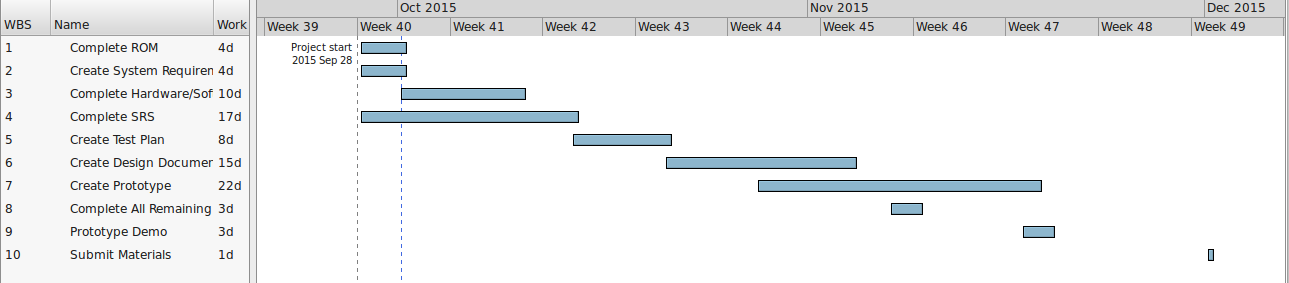
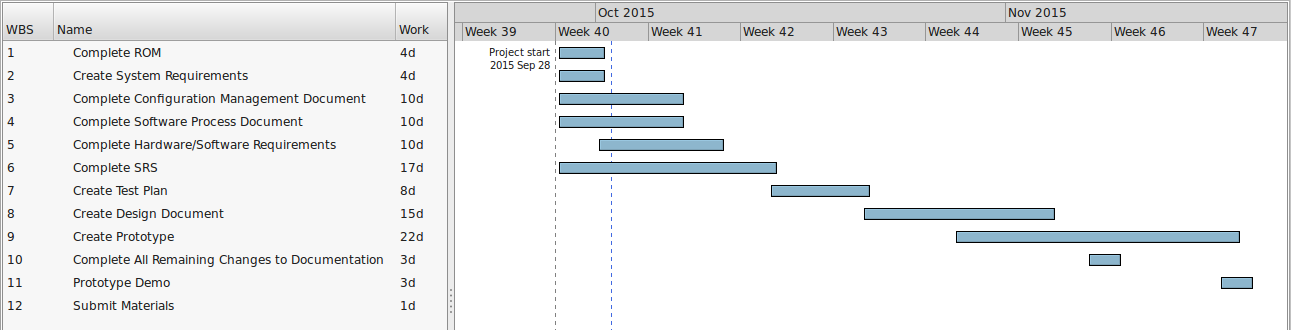
Updated schedule to include the Software Process Document and the Configuration Management Document planning.

diff --git a/documentation/schedule/CPE656_TrainLocationProject_Schedule.html b/documentation/schedule/CPE656_TrainLocationProject_Schedule.html
@@ -360,7 +360,7 @@ th.gantt-day-header {
       </tr>
       <tr>
         <td class="header">Report Date:</td>
-        <td>September 30, 2015</td>
+        <td>October 1, 2015</td>
       </tr>
     </table>
     <div class="separator"></div>
@@ -418,7 +418,7 @@ th.gantt-day-header {
             </td>
             <td>
               <a name="gantt-3" style="white-space: nowrap; margin-left: 0px;" id="gantt-3">
-                <span>Complete Hardware/Software Requirements</span>
+                <span>Complete Configuration Management Document</span>
               </a>
             </td>
             <td>
@@ -431,6 +431,32 @@ th.gantt-day-header {
             </td>
             <td>
               <a name="gantt-4" style="white-space: nowrap; margin-left: 0px;" id="gantt-4">
+                <span>Complete Software Process Document</span>
+              </a>
+            </td>
+            <td>
+              <span>10d </span>
+            </td>
+          </tr>
+          <tr class="odd">
+            <td>
+              <span>5</span>
+            </td>
+            <td>
+              <a name="gantt-5" style="white-space: nowrap; margin-left: 0px;" id="gantt-5">
+                <span>Complete Hardware/Software Requirements</span>
+              </a>
+            </td>
+            <td>
+              <span>10d </span>
+            </td>
+          </tr>
+          <tr class="even">
+            <td>
+              <span>6</span>
+            </td>
+            <td>
+              <a name="gantt-6" style="white-space: nowrap; margin-left: 0px;" id="gantt-6">
                 <span>Complete SRS</span>
               </a>
             </td>
@@ -440,10 +466,10 @@ th.gantt-day-header {
           </tr>
           <tr class="odd">
             <td>
-              <span>5</span>
+              <span>7</span>
             </td>
             <td>
-              <a name="gantt-5" style="white-space: nowrap; margin-left: 0px;" id="gantt-5">
+              <a name="gantt-7" style="white-space: nowrap; margin-left: 0px;" id="gantt-7">
                 <span>Create Test Plan</span>
               </a>
             </td>
@@ -453,10 +479,10 @@ th.gantt-day-header {
           </tr>
           <tr class="even">
             <td>
-              <span>6</span>
+              <span>8</span>
             </td>
             <td>
-              <a name="gantt-6" style="white-space: nowrap; margin-left: 0px;" id="gantt-6">
+              <a name="gantt-8" style="white-space: nowrap; margin-left: 0px;" id="gantt-8">
                 <span>Create Design Document</span>
               </a>
             </td>
@@ -466,10 +492,10 @@ th.gantt-day-header {
           </tr>
           <tr class="odd">
             <td>
-              <span>7</span>
+              <span>9</span>
             </td>
             <td>
-              <a name="gantt-7" style="white-space: nowrap; margin-left: 0px;" id="gantt-7">
+              <a name="gantt-9" style="white-space: nowrap; margin-left: 0px;" id="gantt-9">
                 <span>Create Prototype</span>
               </a>
             </td>
@@ -479,10 +505,10 @@ th.gantt-day-header {
           </tr>
           <tr class="even">
             <td>
-              <span>8</span>
+              <span>10</span>
             </td>
             <td>
-              <a name="gantt-8" style="white-space: nowrap; margin-left: 0px;" id="gantt-8">
+              <a name="gantt-10" style="white-space: nowrap; margin-left: 0px;" id="gantt-10">
                 <span>Complete All Remaining Changes to Documentation</span>
               </a>
             </td>
@@ -492,10 +518,10 @@ th.gantt-day-header {
           </tr>
           <tr class="odd">
             <td>
-              <span>9</span>
+              <span>11</span>
             </td>
             <td>
-              <a name="gantt-9" style="white-space: nowrap; margin-left: 0px;" id="gantt-9">
+              <a name="gantt-11" style="white-space: nowrap; margin-left: 0px;" id="gantt-11">
                 <span>Prototype Demo</span>
               </a>
             </td>
@@ -505,10 +531,10 @@ th.gantt-day-header {
           </tr>
           <tr class="even">
             <td>
-              <span>10</span>
+              <span>12</span>
             </td>
             <td>
-              <a name="gantt-10" style="white-space: nowrap; margin-left: 0px;" id="gantt-10">
+              <a name="gantt-12" style="white-space: nowrap; margin-left: 0px;" id="gantt-12">
                 <span>Submit Materials</span>
               </a>
             </td>
@@ -624,6 +650,26 @@ th.gantt-day-header {
               <div style="width: 1441px; white-space: nowrap;">
                 <div class="gantt-empty-begin" style="width: 6px;"></div>
                 <div class="gantt-complete-notdone" style="width: 68px;"></div>
+                <div class="gantt-empty-end"></div>
+                <div class="gantt-resources"></div>
+              </div>
+            </td>
+          </tr>
+          <tr class="odd">
+            <td colspan="73">
+              <div style="width: 1441px; white-space: nowrap;">
+                <div class="gantt-empty-begin" style="width: 6px;"></div>
+                <div class="gantt-complete-notdone" style="width: 188px;"></div>
+                <div class="gantt-empty-end"></div>
+                <div class="gantt-resources"></div>
+              </div>
+            </td>
+          </tr>
+          <tr class="even">
+            <td colspan="73">
+              <div style="width: 1441px; white-space: nowrap;">
+                <div class="gantt-empty-begin" style="width: 6px;"></div>
+                <div class="gantt-complete-notdone" style="width: 188px;"></div>
                 <div class="gantt-empty-end"></div>
                 <div class="gantt-resources"></div>
               </div>
@@ -805,6 +851,60 @@ th.gantt-day-header {
             </td>
             <td>
               <a name="task3" style="margin-left: 0px" id="task3">
+                <span>Complete Configuration Management Document</span>
+              </a>
+            </td>
+            <td>
+              <span>Sep 28</span>
+            </td>
+            <td>
+              <span>Oct 7</span>
+            </td>
+            <td>
+              <span>10d </span>
+            </td>
+            <td>
+              <span>0%
+              </span>
+            </td>
+            <td>
+              <span></span>
+            </td>
+            <td></td>
+          </tr>
+          <tr class="even" style="">
+            <td>
+              <span>4</span>
+            </td>
+            <td>
+              <a name="task4" style="margin-left: 0px" id="task4">
+                <span>Complete Software Process Document</span>
+              </a>
+            </td>
+            <td>
+              <span>Sep 28</span>
+            </td>
+            <td>
+              <span>Oct 7</span>
+            </td>
+            <td>
+              <span>10d </span>
+            </td>
+            <td>
+              <span>0%
+              </span>
+            </td>
+            <td>
+              <span></span>
+            </td>
+            <td></td>
+          </tr>
+          <tr class="odd" style="">
+            <td>
+              <span>5</span>
+            </td>
+            <td>
+              <a name="task5" style="margin-left: 0px" id="task5">
                 <span>Complete Hardware/Software Requirements</span>
               </a>
             </td>
@@ -828,10 +928,10 @@ th.gantt-day-header {
           </tr>
           <tr class="even" style="">
             <td>
-              <span>4</span>
+              <span>6</span>
             </td>
             <td>
-              <a name="task4" style="margin-left: 0px" id="task4">
+              <a name="task6" style="margin-left: 0px" id="task6">
                 <span>Complete SRS</span>
               </a>
             </td>
@@ -855,10 +955,10 @@ th.gantt-day-header {
           </tr>
           <tr class="odd" style="">
             <td>
-              <span>5</span>
+              <span>7</span>
             </td>
             <td>
-              <a name="task5" style="margin-left: 0px" id="task5">
+              <a name="task7" style="margin-left: 0px" id="task7">
                 <span>Create Test Plan</span>
               </a>
             </td>
@@ -882,10 +982,10 @@ th.gantt-day-header {
           </tr>
           <tr class="even" style="">
             <td>
-              <span>6</span>
+              <span>8</span>
             </td>
             <td>
-              <a name="task6" style="margin-left: 0px" id="task6">
+              <a name="task8" style="margin-left: 0px" id="task8">
                 <span>Create Design Document</span>
               </a>
             </td>
@@ -909,10 +1009,10 @@ th.gantt-day-header {
           </tr>
           <tr class="odd" style="">
             <td>
-              <span>7</span>
+              <span>9</span>
             </td>
             <td>
-              <a name="task7" style="margin-left: 0px" id="task7">
+              <a name="task9" style="margin-left: 0px" id="task9">
                 <span>Create Prototype</span>
               </a>
             </td>
@@ -936,10 +1036,10 @@ th.gantt-day-header {
           </tr>
           <tr class="even" style="">
             <td>
-              <span>8</span>
+              <span>10</span>
             </td>
             <td>
-              <a name="task8" style="margin-left: 0px" id="task8">
+              <a name="task10" style="margin-left: 0px" id="task10">
                 <span>Complete All Remaining Changes to Documentation</span>
               </a>
             </td>
@@ -963,10 +1063,10 @@ th.gantt-day-header {
           </tr>
           <tr class="odd" style="">
             <td>
-              <span>9</span>
+              <span>11</span>
             </td>
             <td>
-              <a name="task9" style="margin-left: 0px" id="task9">
+              <a name="task11" style="margin-left: 0px" id="task11">
                 <span>Prototype Demo</span>
               </a>
             </td>
@@ -990,10 +1090,10 @@ th.gantt-day-header {
           </tr>
           <tr class="even" style="">
             <td>
-              <span>10</span>
+              <span>12</span>
             </td>
             <td>
-              <a name="task10" style="margin-left: 0px" id="task10">
+              <a name="task12" style="margin-left: 0px" id="task12">
                 <span>Submit Materials</span>
               </a>
             </td>
